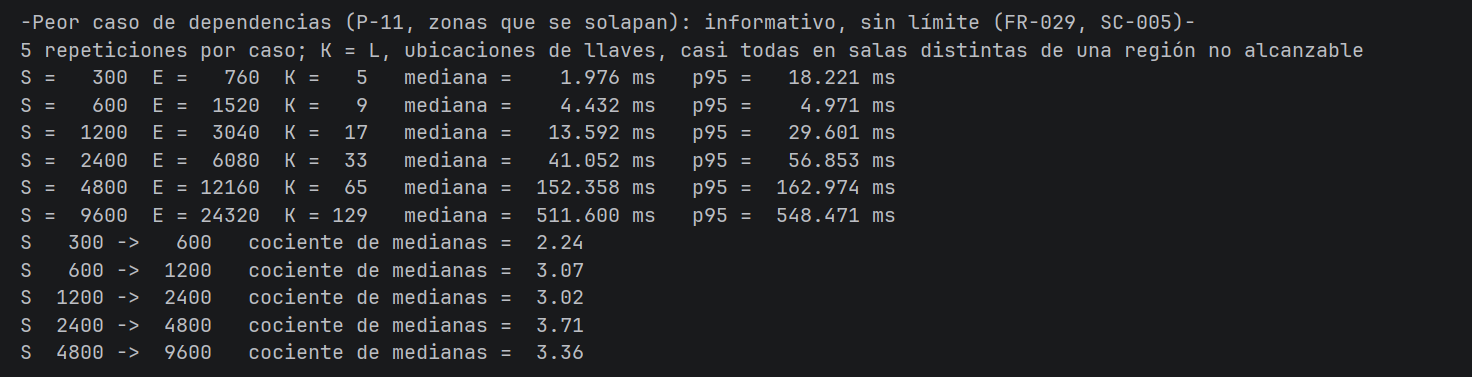
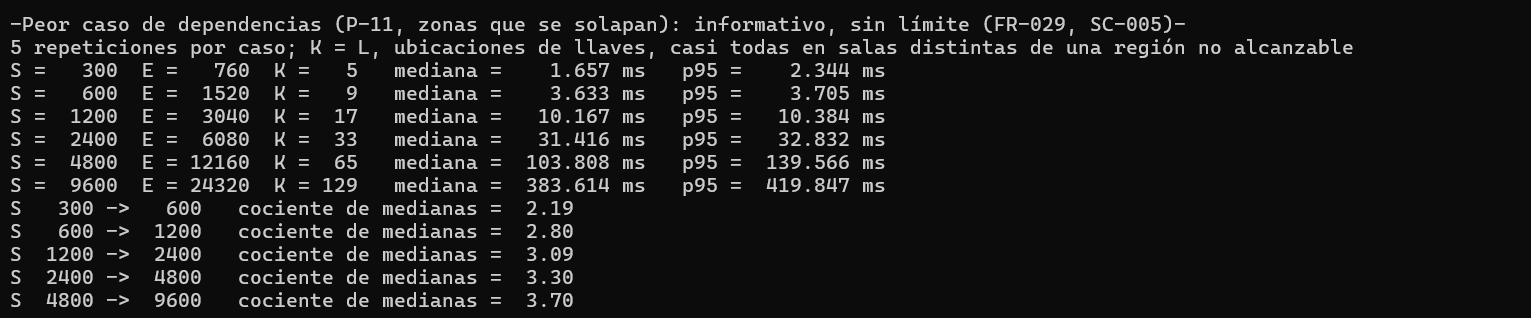
corrección de documento de decisiones

Changed region(s): [[0.0, 0.0283, 0.9375, 0.8208], [0.0, 0.8491, 0.4062, 0.9623]]

diff --git a/Decisiones/DECISIONES.md b/Decisiones/DECISIONES.md
@@ -332,39 +332,30 @@ Medido con `python main.py --bench` (`tests/bench_resolubilidad.py`) en un AMD R
 
 ![Figura](img_8.png)
 
-El caso resoluble tarda  2.000 ms de mediana y 3.074 ms de p95; el no resoluble con ciclo, 2.159  ms y 2.992 ms. Los dos cumplen con amplio margen: el p95 es aproximadamente unas 56 veces menor que el límite.
+El caso resoluble tarda 1.226 ms de mediana y 1.361 ms de p95; el no resoluble con ciclo, 1.306 ms y 1.637 ms. Los dos cumplen con amplio margen: el p95 es aproximadamente unas 120 veces menor que el límite.
 
 **Crecimiento al duplicar la cripta (M2 y M3, SC-005).** De S = 300 a S = 9600, duplicando salas, salidas y llaves:
 
 ![Figura](img_9.png)
 ![Figura](img_10.png)
 
-En el caso resoluble, el cociente de medianas en cada duplicación está entre 2.04 y 2.34; en el no resoluble con reporte, dependencias y ciclos (zonas disjuntas), entre 2.04 y 2.33. Todos quedan por debajo de 2.5, lo que respalda el crecimiento aproximadamente lineal. Con 9600 salas el caso resoluble sigue en 99.416 ms de mediana.
+En el caso resoluble, el cociente de medianas en cada duplicación está entre 2.09 y 2.13; en el no resoluble con reporte, dependencias y ciclos (zonas disjuntas), entre 2.10 y 2.18. Todos quedan por debajo de 2.5, lo que respalda el crecimiento aproximadamente lineal. Con 9600 salas el caso resoluble sigue en 47.855 ms de mediana.
 
 **Versión elegida frente a las alternativas (M4).**
 
 ![Figura](img_11.png)
 
-- **A1, recorrer todo por cada llave:** es la comparación que exige el enunciado (§6.3): recorrido incremental frente a recorrido repetido por llave. Con S = 1200, la ventaja de la versión elegida crece con K: 1.27 veces con 4 llaves, 1.82 con 16, 3.99 con 64 y 11.28 con 256 (9.719 ms frente a 109.644 ms). En las duplicaciones de M2 llega a 5.52 veces con 9600 salas (81.628 ms frente a 450.318 ms). Es la alternativa que más se aleja, porque su costo crece con K·S.
-- **A2, zona de cada llave por separado:** entre 1.07 y 1.15 veces más lenta en el caso no resoluble. La diferencia es pequeña con estas criptas porque sus zonas no se solapan.
-- **A3, búsqueda lineal del id:** con pocas llaves empata con la búsqueda binaria (entre 0.97 y 1.04 hasta 64 llaves, y 1.00 en las criptas de 300 y 600 salas de M2). La búsqueda binaria se justifica por la escala: con 256 llaves la lineal es 1.31 veces más lenta en el caso resoluble y 1.51 en el no resoluble. En la duplicación de 4800 salas A3 salió más rápida (0.61); **HIPÓTESIS:** es ruido de esa medición, porque la elegida tardó ahí más de lo que sigue la tendencia (48.501 ms, frente a unos 40 ms en M2).
+- **A1, recorrer todo por cada llave:** es la comparación que exige el enunciado (§6.3): recorrido incremental frente a recorrido repetido por llave. Con S = 1200, la ventaja de la versión elegida crece con K: 1.25 veces con 4 llaves, 1.88 con 16, 4.10 con 64 y 11.27 con 256 (7.513 ms frente a 84.688 ms). En las duplicaciones de M2 llega a 7.24 veces con 9600 salas (46.974 ms frente a 340.069 ms). Es la alternativa que más se aleja, porque su costo crece con K·S.
+- **A2, zona de cada llave por separado:** entre 1.05 y 1.11 veces más lenta en el caso no resoluble. La diferencia es pequeña con estas criptas porque sus zonas no se solapan.
+- **A3, búsqueda lineal del id:** con pocas llaves empata con la búsqueda binaria (entre 0.99 y 1.05 hasta 64 llaves, y 1.00 y 0.99 en las criptas de 300 y 600 salas de M2). La búsqueda binaria se justifica por la escala: con 256 llaves la lineal es 1.42 veces más lenta en el caso resoluble y 1.52 en el no resoluble.
 
 **Conteos del índice (M5).** Para respaldar la complejidad sin depender del reloj, se contaron operaciones. Al ordenar las M menciones de llaves con `merge_sort`, las comparaciones crecen como M log M: al dividir las comparaciones entre M·log₂ M, el resultado se mantiene casi igual (entre 0.580 y 0.622) aunque M pase de 26 a 2340. En la búsqueda binaria del índice, cada vez que se duplica la cantidad de llaves, el máximo de pasos sube solo en uno: 3 pasos con 4 llaves, 4 con 8, 5 con 16 y así hasta 9 pasos con 256 llaves. Eso es lo que se espera de una búsqueda O(log K), que parte la lista a la mitad en cada paso.
+
 **Peor caso de las dependencias (P-11, informativo, sin límite).** Con zonas que se solapan y casi todas las llaves en salas distintas de una región no alcanzable:
 
 ![Figura](img_12.png)
 
-Aquí, al duplicar la cripta el tiempo se multiplica entre 2.24 y 3.71 veces, en vez de cerca de 2 como en M2 y M3. Desde 600 salas pasa siempre del límite de 2.5. Con 9600 salas y 129 llaves tarda 511.600 ms de mediana. La razón es que cada llave revisa toda la región bloqueada: si se duplican a la vez las llaves y el tamaño de la cripta, el trabajo crece por los dos lados, que es lo que dice el O(L·(S + E)) del análisis. Es el único caso que no crece de forma lineal, y por eso queda documentado como excepción. Solo ocurre en criptas no resolubles con muchas llaves dentro de una misma región bloqueada.
-### 6. Límites conocidos
-
-- **Peor caso de las dependencias:** si las zonas de muchas llaves se solapan, el cálculo de dependencias crece como O(L·(S + E)) y deja de ser lineal (cocientes de hasta 3.82 en el bench). Solo ocurre en criptas no resolubles y con una forma muy particular. **HIPÓTESIS:** las criptas publicadas no tienen esa forma; no se midió con ellas.
-- **Criptas sintéticas:** M1 usa una cripta sintética del tamaño de cripta-06, no la cripta-06 real. **HIPÓTESIS:** la real se comporta igual, porque el costo depende de S, E y K, no del contenido.
-- **Ids de sala dispersos:** el vector de salas mide `max_id + 1`. Si los ids fueran muy dispersos (por ejemplo, `max_id` mayor que 4·S), la memoria sería O(max_id). No pasa en ninguna cripta publicada. Un id que no sea entero no negativo hace fallar la verificación con `! Error: ...`.
-- **Variación del p95:** en las criptas grandes el p95 se separa de la mediana (por ejemplo, 18.983 ms de mediana y 59.423 ms de p95 con S = 2400). Por eso los criterios de crecimiento usan la mediana. **HIPÓTESIS:** se debe a la recolección de basura o a la carga del equipo; no se verificó por separado. Todas las mediciones son de un solo equipo.
-- **Caché de llaves:** `datos_locales/llaves_<id>.json` lleva identificador y versión de formato (`CRIPTA-LLAVES`, 1), pero las cachés anteriores del esqueleto y del catálogo no; se dejaron así porque son contrato compartido.
-- **El reporte no se mide aparte:** M3 mide la verificación completa del caso no resoluble; no hay una cifra separada de cuánto cuesta solo el reporte.
-
-
+Aquí, al duplicar la cripta el tiempo se multiplica entre 2.19 y 3.70 veces, en vez de cerca de 2 como en M2 y M3. Desde 600 salas pasa siempre del límite de 2.5. Con 9600 salas y 129 llaves tarda 383.614 ms de mediana. La razón es que cada llave revisa toda la región bloqueada: si se duplican a la vez las llaves y el tamaño de la cripta, el trabajo crece por los dos lados, que es lo que dice el O(L·(S + E)) del análisis. Es el único caso que no crece de forma lineal, y por eso queda documentado como excepción. Solo ocurre en criptas no resolubles con muchas llaves dentro de una misma región bloqueada.
 
 *Secciones de Persona C*
 
